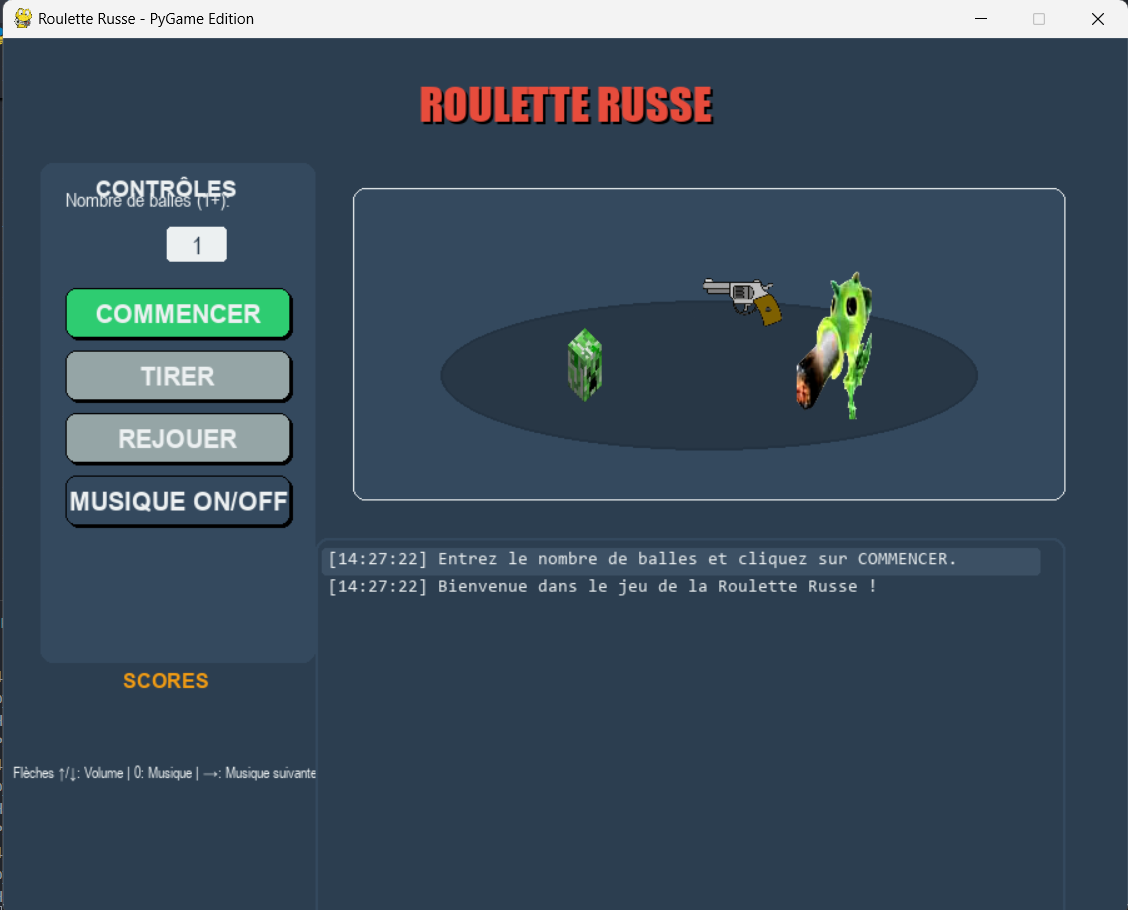
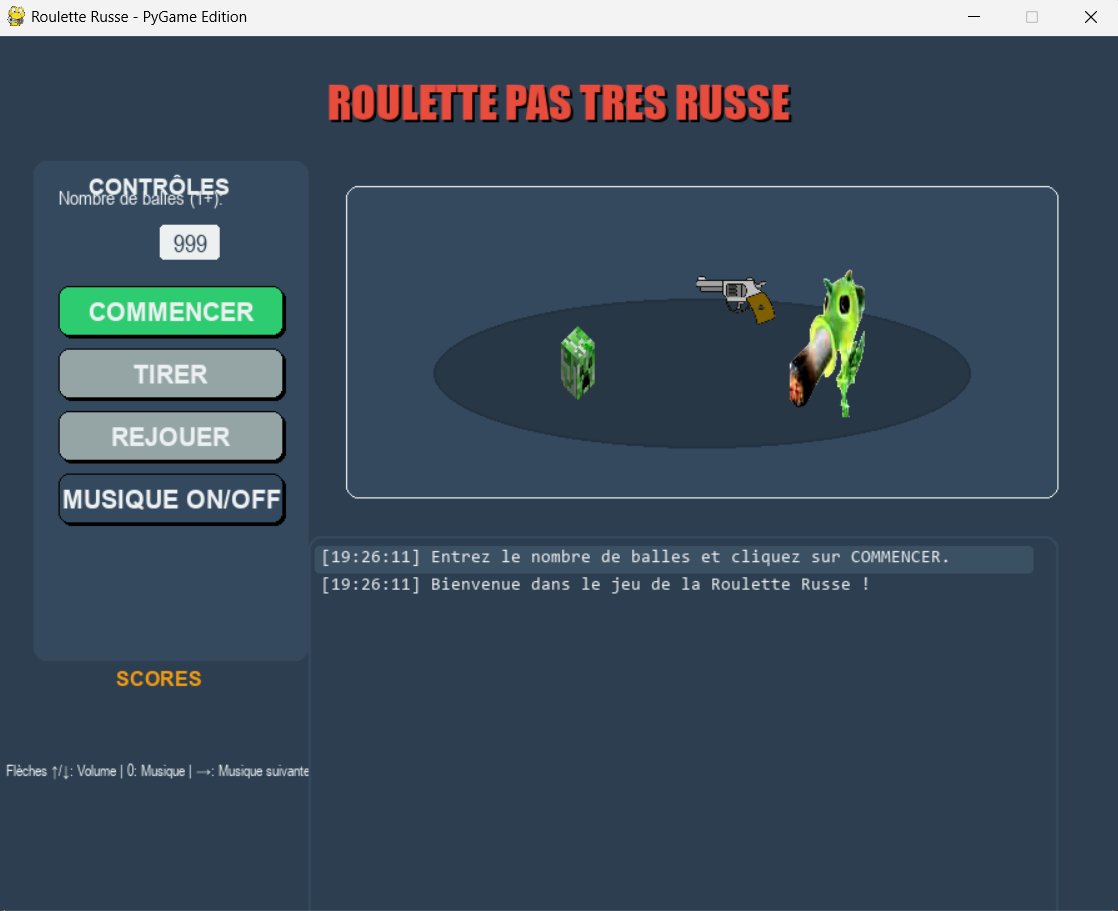
readme update

diff --git a/roulette_graphique.py b/roulette_graphique.py
@@ -758,8 +758,8 @@ class Game:
         SCREEN.fill(DARK_BLUE)
     
         title_font = pygame.font.SysFont("Impact", 36)
-        shadow_surf = title_font.render("ROULETTE RUSSE", True, (0, 0, 0))
-        title_surf = title_font.render("ROULETTE RUSSE", True, RED)
+        shadow_surf = title_font.render("ROULETTE PAS TRES RUSSE", True, (0, 0, 0))
+        title_surf = title_font.render("ROULETTE PAS TRES RUSSE", True, RED)
     
         SCREEN.blit(shadow_surf, (SCREEN_WIDTH // 2 - shadow_surf.get_width() // 2 + 2, 32))
         SCREEN.blit(title_surf, (SCREEN_WIDTH // 2 - title_surf.get_width() // 2, 30))
